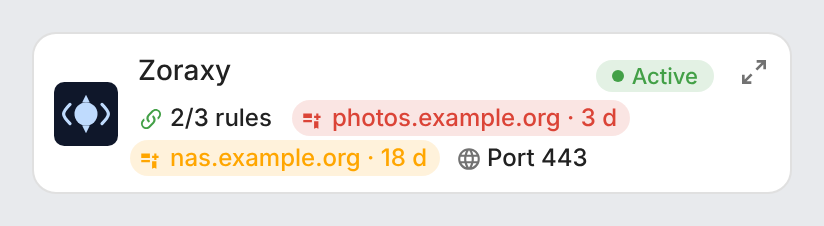
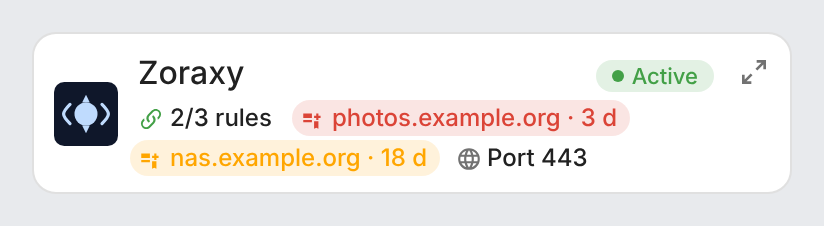
Give the mini card title the full card's 16 px size
Claude-Session: https://claude.ai/code/session_01NW8HrjdUvTF3zwsaKKxQNw

Changed region(s): [[0.1517, 0.2478, 0.3034, 0.4027]]

diff --git a/custom_components/zoraxy/frontend/zoraxy-card.js b/custom_components/zoraxy/frontend/zoraxy-card.js
@@ -530,7 +530,7 @@ class ZoraxyMiniCard extends ZoraxyCard {
     .mini .logo { width: 32px; height: 32px; }
     .body { flex: 1; min-width: 0; display: flex; flex-direction: column; gap: 4px; }
     .head { display: flex; align-items: center; gap: 8px; min-width: 0; }
-    .mini .name { flex: 0 1 auto; font-size: 14px; line-height: 18px; }
+    .mini .name { flex: 0 1 auto; }
     .head #status { flex: none; margin-left: auto; }
     .rs { display: flex; flex-wrap: wrap; gap: 2px 4px; margin-left: -4px; }
     .rs:empty { display: none; }

diff --git a/CHANGELOG.md b/CHANGELOG.md
@@ -4,6 +4,7 @@
 
 ### Changes
 - Full card: the Zoraxy logo in the header is 40 px, like the header icon of the other cards (32 px on the mini card, unchanged).
+- Mini card: the title uses the full card's size (16 px, line height 1.25) instead of 14 px; a long title still ends with an ellipsis.
 
 ## 1.7.1
 
